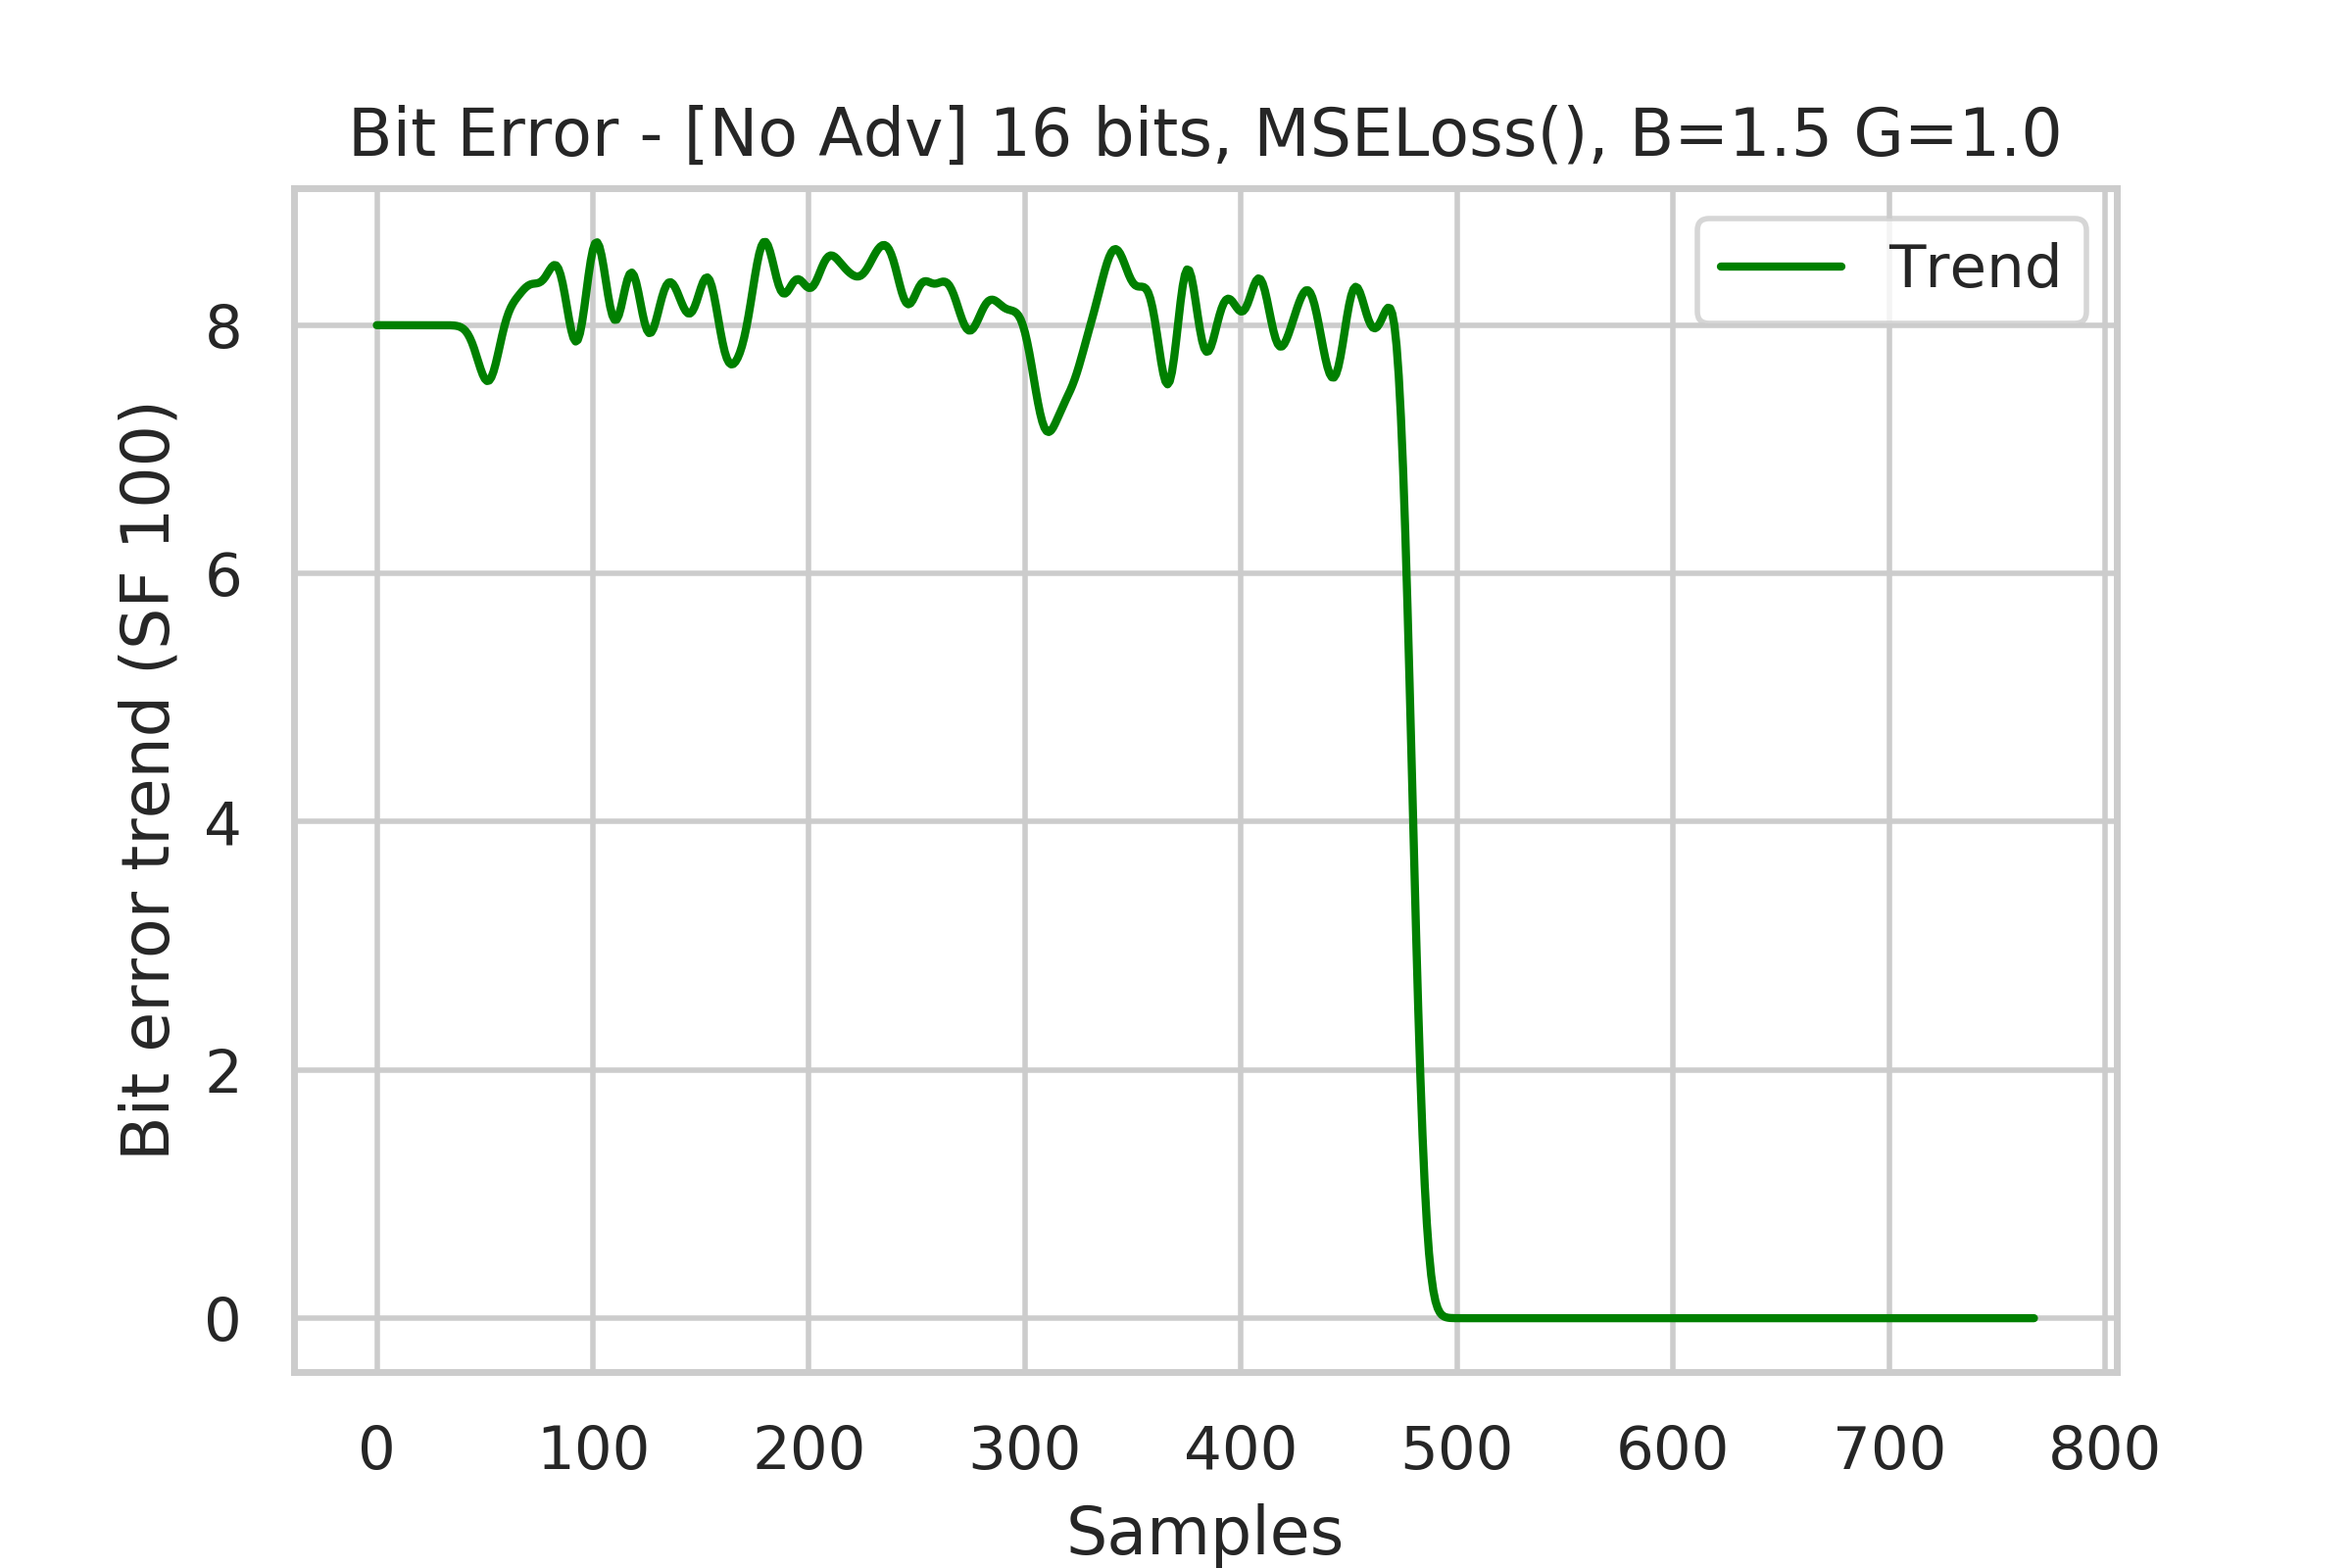
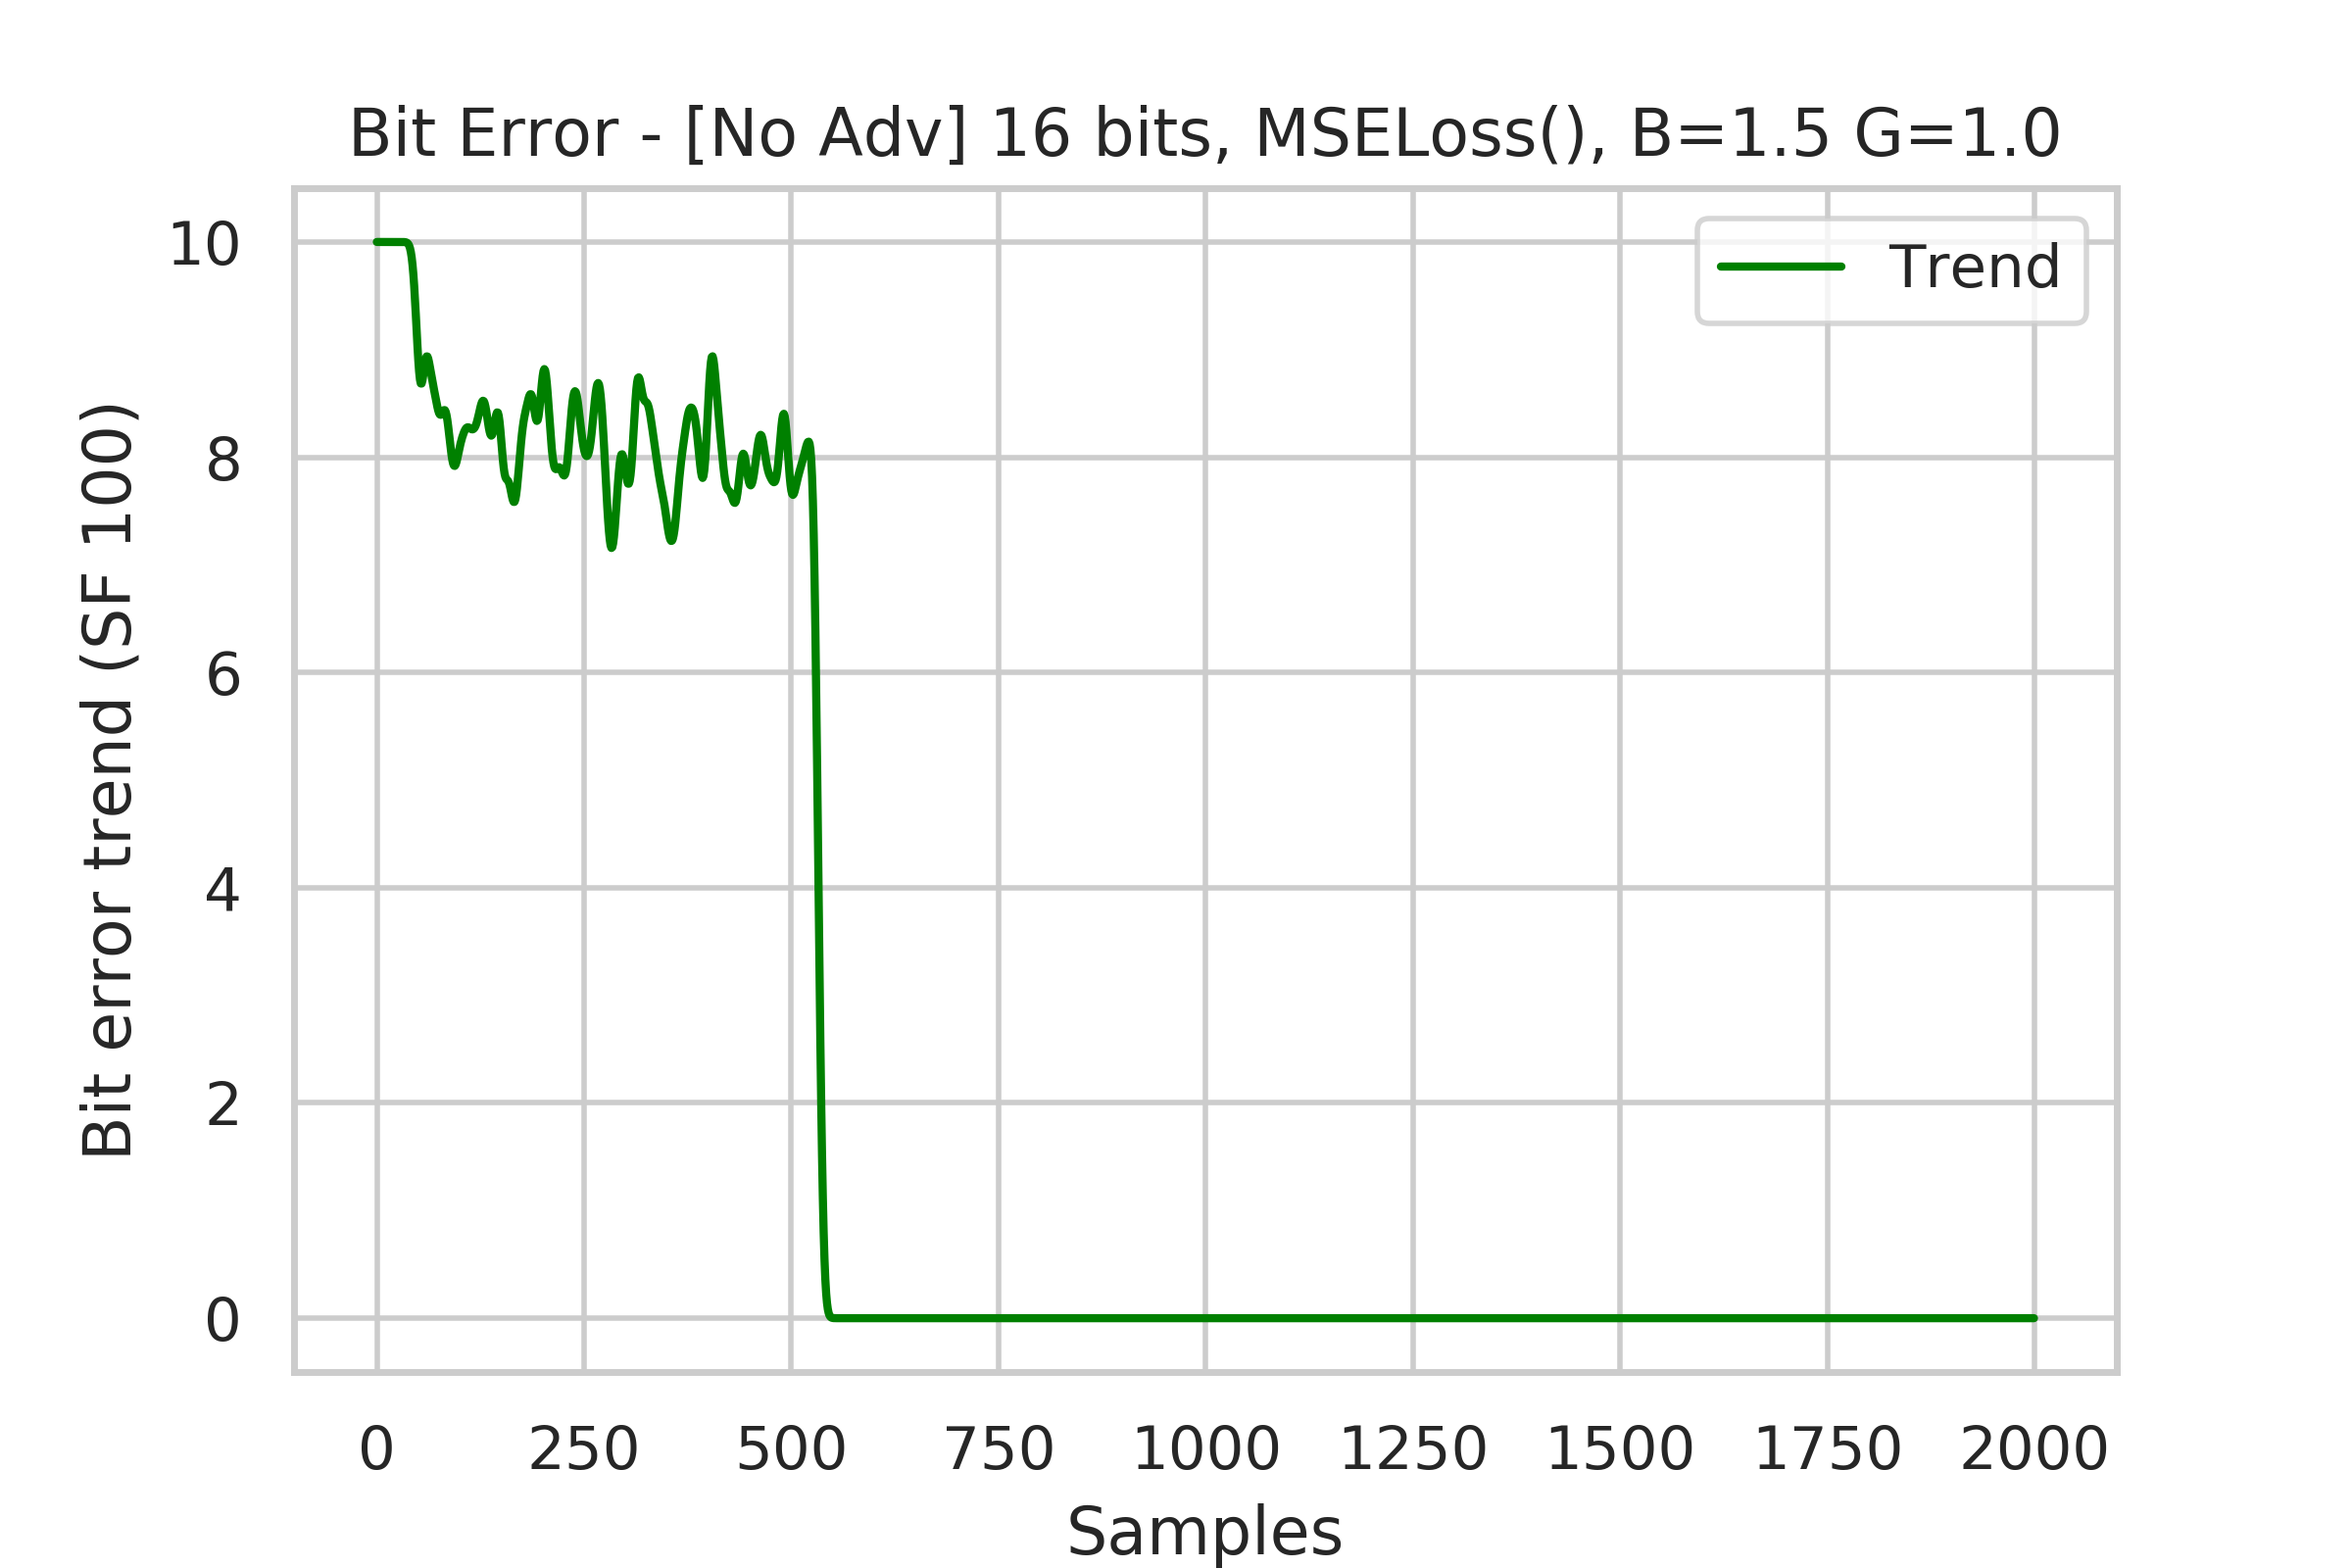
Version 20

diff --git a/src/cryptonet.py b/src/cryptonet.py
@@ -20,7 +20,7 @@ from matplotlib import pyplot as plt
 import seaborn as sns
 sns.set()
 
-VERSION = 17
+VERSION = 20
 
 # %%
 # Define networks
@@ -113,7 +113,7 @@ class AttackerNetwork(nn.Module):
 # Data and Proprocessing
 
 BLOCKSIZE = 16
-EPOCHS = 1
+EPOCHS = 16
 BATCHES = 64
 BATCHLEN = 256
 
@@ -179,7 +179,7 @@ eve_bits_err = []
 # Hyperparams
 BETA = 1.5
 GAMMA = 1.0
-OMEGA = 1.5
+OMEGA = 2.0
 DECISION_BOUNDARY = 0.5
 
 print(f'Model v{VERSION}')
@@ -213,9 +213,7 @@ for E in range(EPOCHS):
       bob_reconst_loss = dist(Pb, Q) #- dist(Q, C)
       eve_recogni_loss = dist(Re, torch.Tensor([1 - R, R]))
 
-      # Linear loss
       alice_loss = (BETA * bob_reconst_loss) - (OMEGA * dist(Q, C)) - (GAMMA * eve_recogni_loss)
-      # alice_loss = BETA * dist(Pb, Q)
 
       bob_reconst_loss.backward(retain_graph=True)
       eve_recogni_loss.backward(retain_graph=True)
@@ -224,15 +222,6 @@ for E in range(EPOCHS):
       opt_alice.step()
       opt_bob.step()
       opt_eve.step()
-
-      # delta_alice = alice_running_loss[-1] - alice_loss.item()
-      # delta_bob = bob_running_loss[-1] - bob_reconst_loss.item()
-      # delta_eve = eve_running_loss[-1] - eve_reconst_loss.item()
-
-      # Stop when no/low avg change
-      # if ((delta_alice + delta_bob + delta_eve)/3 <= 0.00005):
-      #   print('--- Training Stalled ---')
-      #   break
 
       alice_running_loss.append(alice_loss.item())
       bob_running_loss.append(bob_reconst_loss.item())
@@ -266,7 +255,7 @@ FILE_TAG = f'{EPOCHS}E{BATCHES}x{BATCHLEN}v{VERSION}'
 
 SAVEPLOT = False
 # Turn this line on and off to control plot saving
-SAVEPLOT = True
+# SAVEPLOT = True
 
 # plt.xkcd()
 plt.plot(trendline(alice_running_loss[:2000], sf))
@@ -291,41 +280,3 @@ if SAVEPLOT:
   plt.savefig(f'../models/cryptonet/graphs/error_{FILE_TAG}.png', dpi=400)
 plt.show()
 
-# %%
-# Evaluation
-# bob_bits_err_test = []
-
-# recalc_plain()
-# recalc_key()
-
-# for P in PLAIN:
-#   P = torch.Tensor(P)
-#   K = torch.Tensor(KEY)
-
-#   C = alice(torch.cat([P, K], dim=0))
-#   C.detach()
-
-#   Pb = bob(torch.cat([C, K], dim=0))
-
-#   bob_err = 0
-#   eve_err = 0
-#   for b in range(BLOCKSIZE):
-#     if (P[b] == 0 and Pb[b] >= DECISION_BOUNDARY):
-#       bob_err += 1
-#     if (P[b] == 1 and Pb[b] < DECISION_BOUNDARY):
-#       bob_err += 1
-
-#   bob_bits_err_test.append(bob_err)
-
-# plt.plot(bob_bits_err_test)
-# plt.plot(trendline(bob_bits_err_test, sf))
-# plt.legend(['Bob', 'Eve'], loc='upper right')
-# plt.xlabel('Samples')
-# plt.ylabel(f'Bit error trend (Sf {sf})')
-# plt.title(f'Val Error - {TITLE_TAG}')
-# if SAVEPLOT:
-#   plt.savefig(f'../models/graphs/val_error_{FILE_TAG}.png', dpi=400)
-# plt.show()
-
-
-# %%
